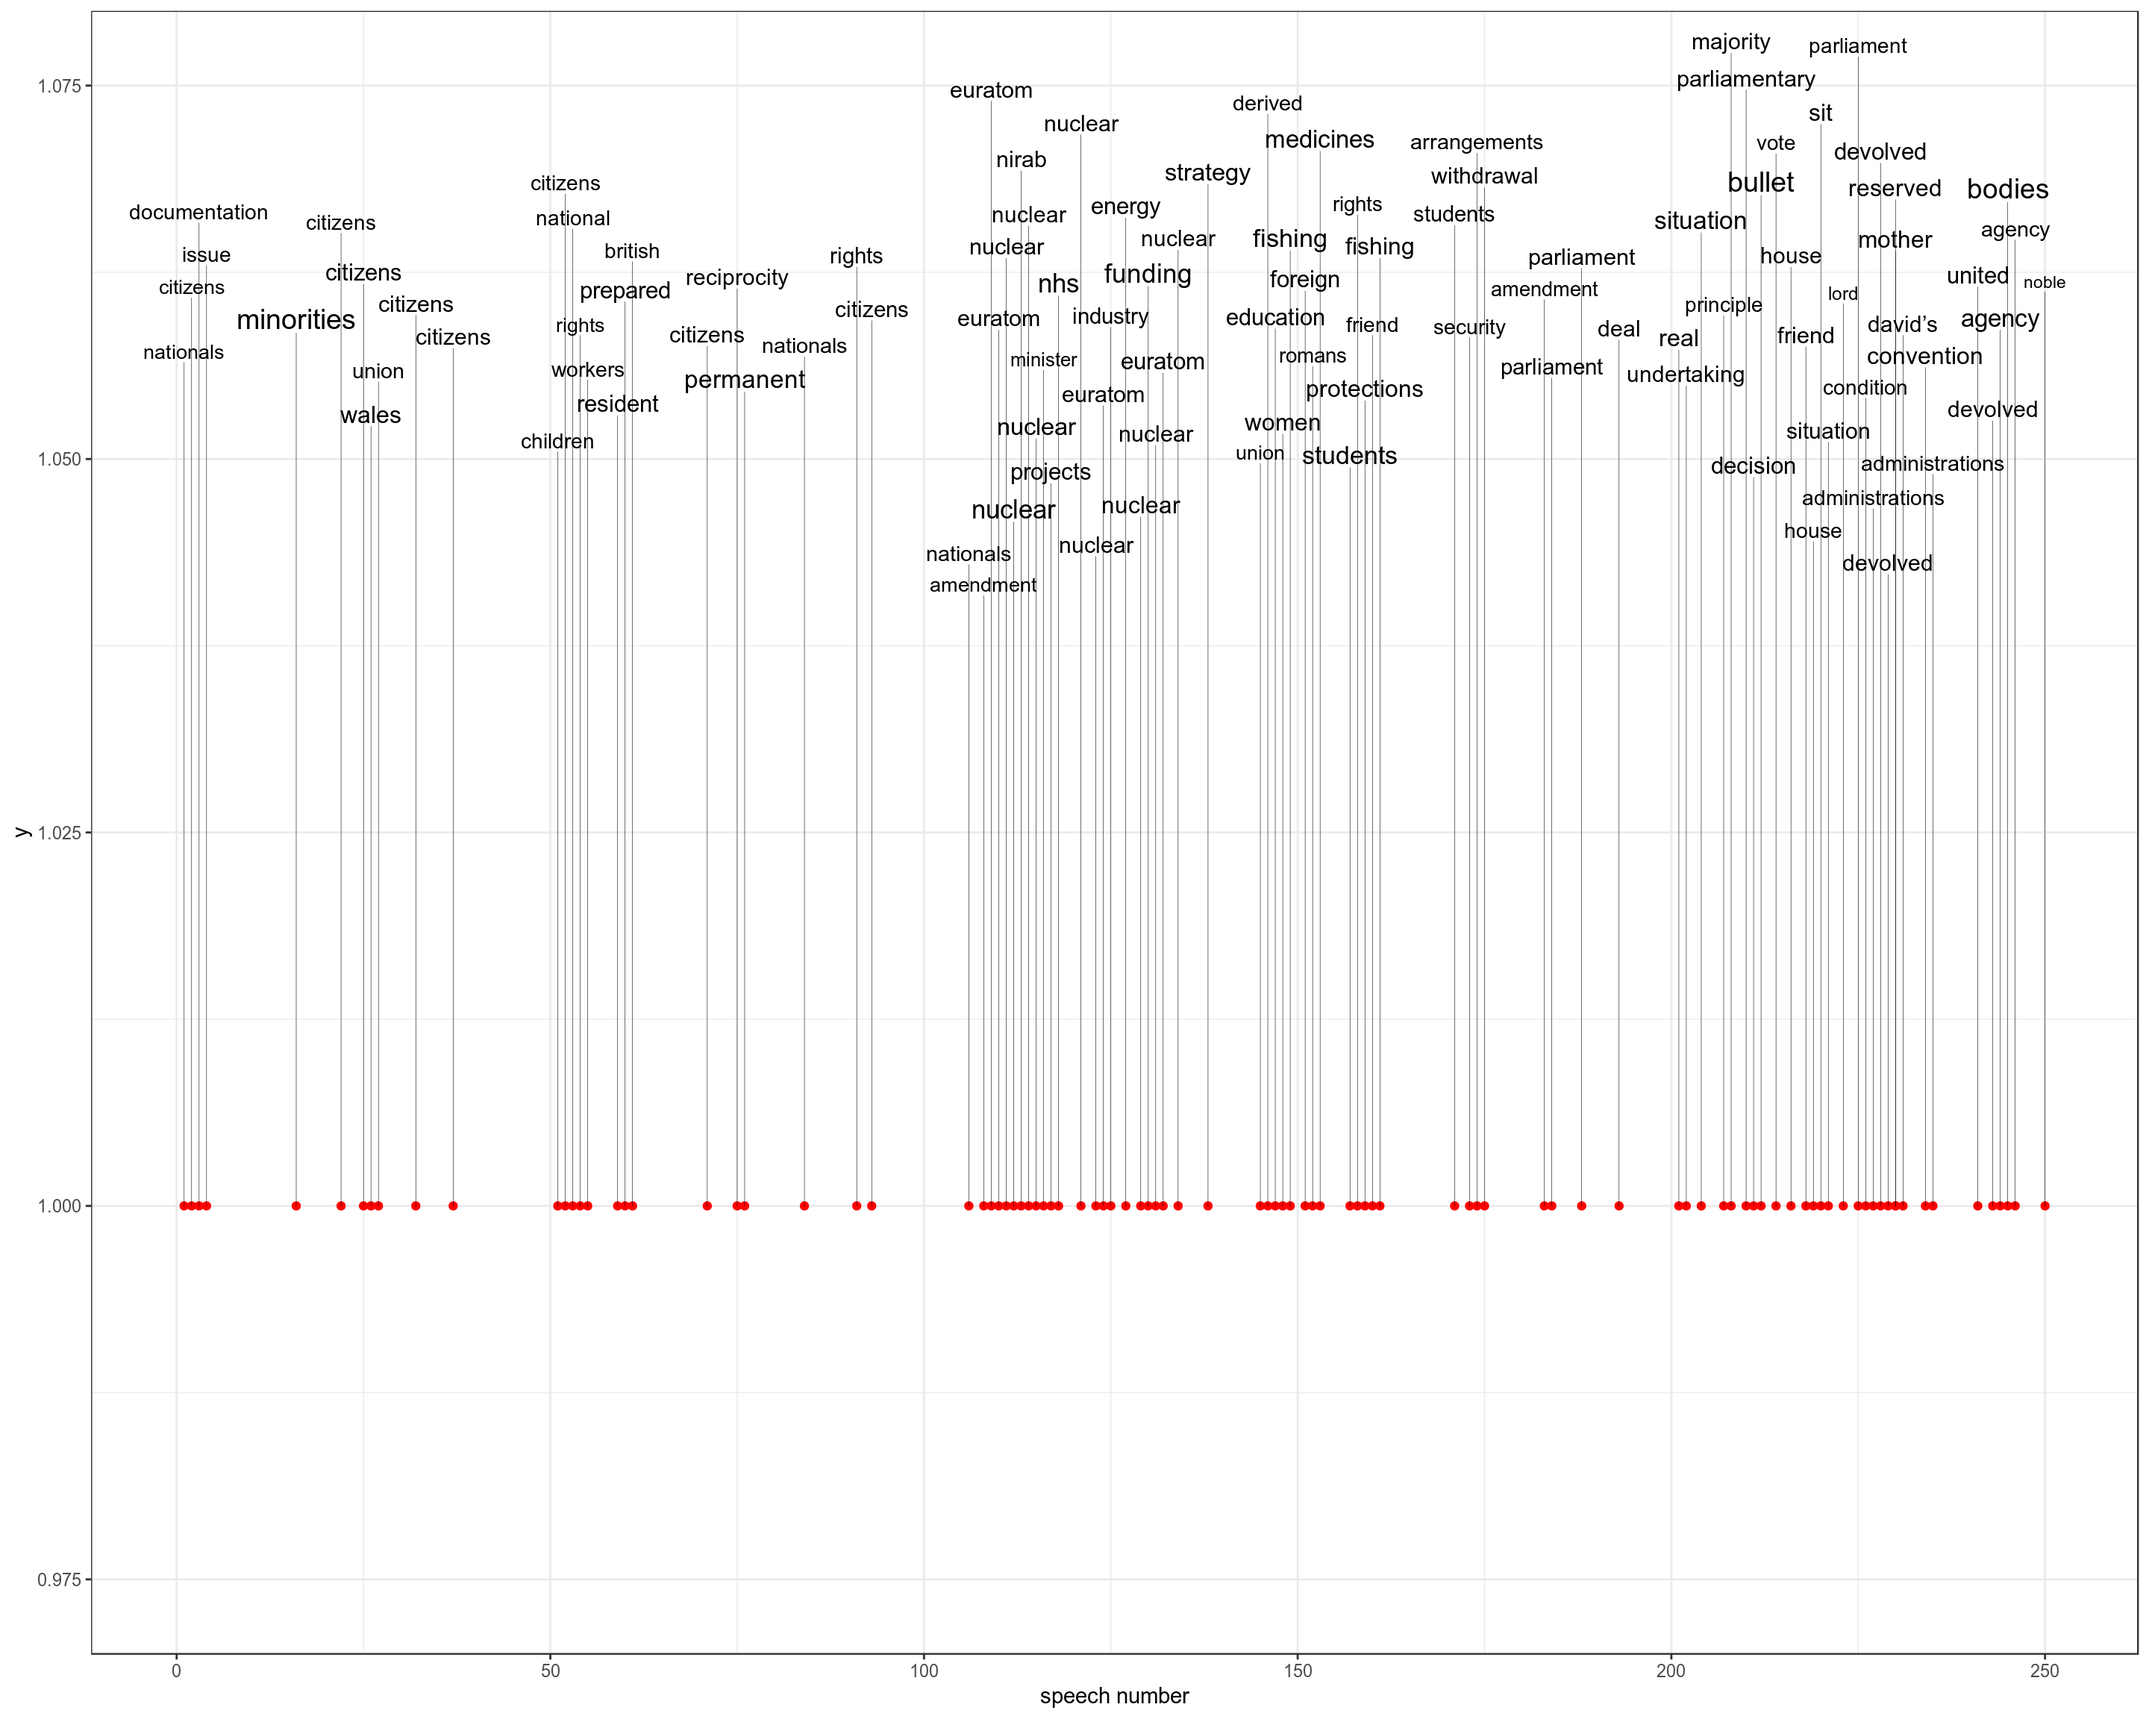
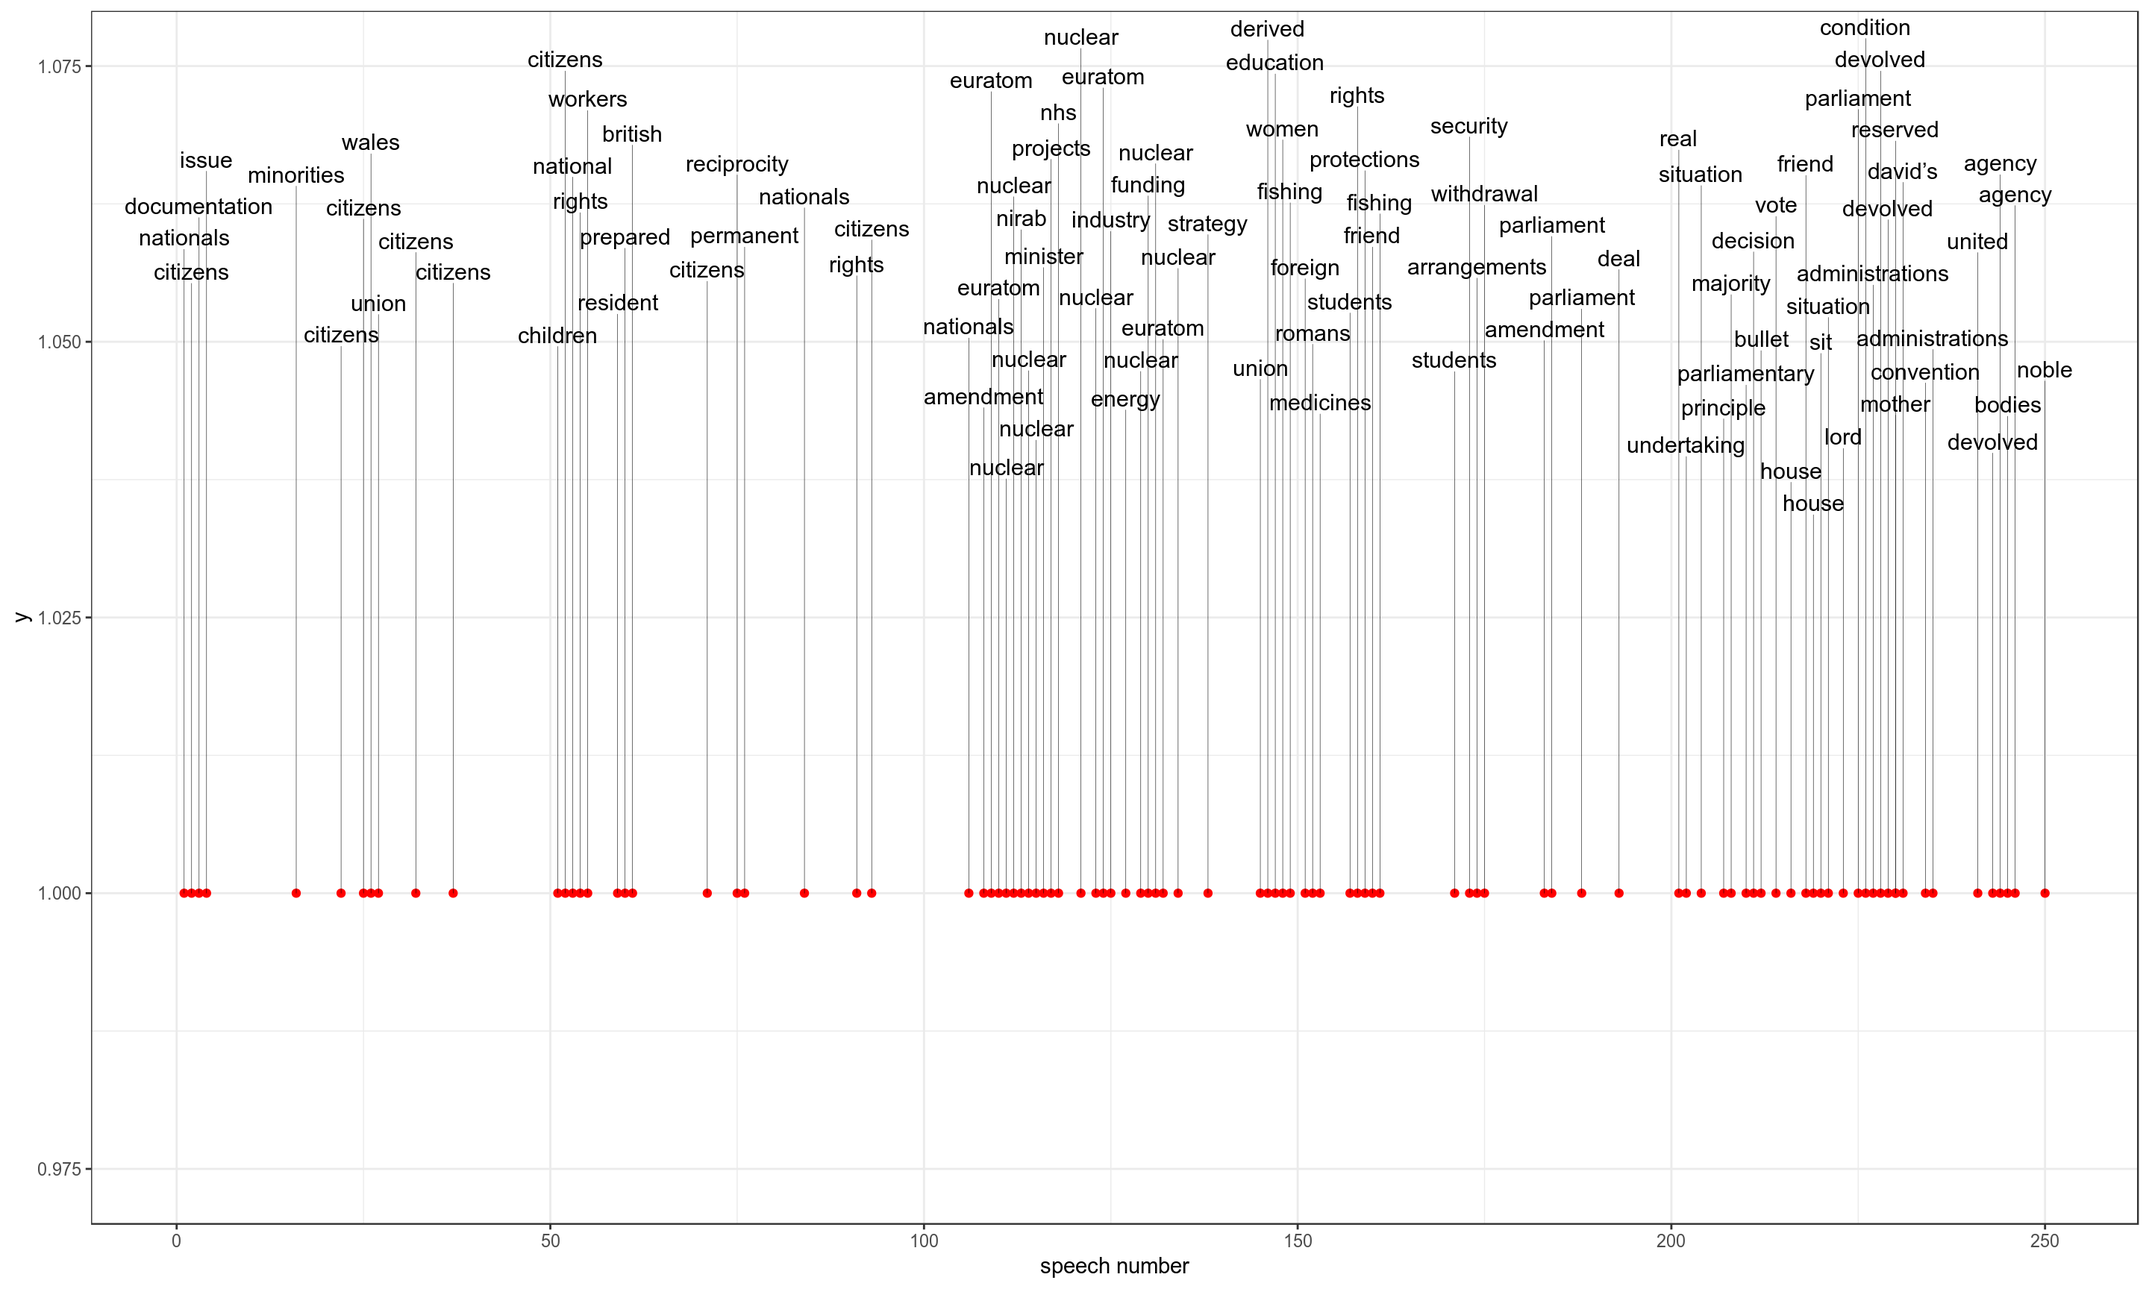
are my images fixed? who knows.

diff --git a/content/post/2019-02-05-text-mining-the-eu-withdrawal-bill-hansard.html b/content/post/2019-02-05-text-mining-the-eu-withdrawal-bill-hansard.html
@@ -171,6 +171,7 @@ Figure 4: The words are on the y axis and their TF-IDF is the position of each b
 Figure 5: The position of words on the y axis is irrelevant! Cheers to Kamil Slowikowski (<a href="https://slowkow.com/" class="uri">https://slowkow.com/</a>) for making ggrepel which organises the text so nicely.
 </p>
 </div>
+<p><strong>Please open this image in a new tab to see it more clearly!</strong></p>
 <p>Early on in the debate, there’s lots of talk about “citizens”. Then there is a period of debate about nuclear bodies/Euratom. Then a period where lots of industries and issues are mentioned including education, fishing, the NHS and women’s rights. The rest of the debate is largely about Parliamant’s role in the decisions made by the government, and the assurances for devolved administrations.</p>
 <p>So TF-IDF is a pretty cool method for finding out the most important words in a text. But what are some problems with it? You might already have noticed some.</p>
 <ul>
